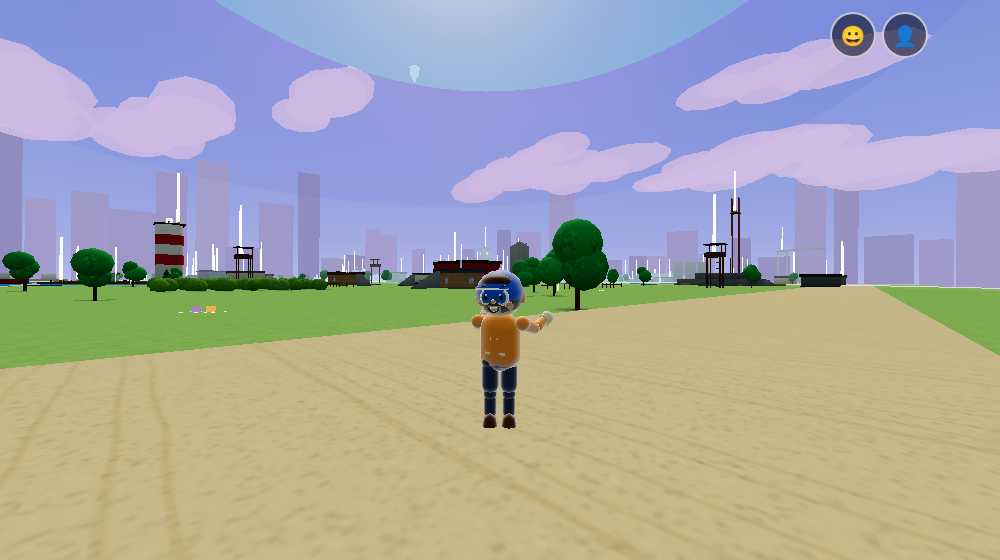
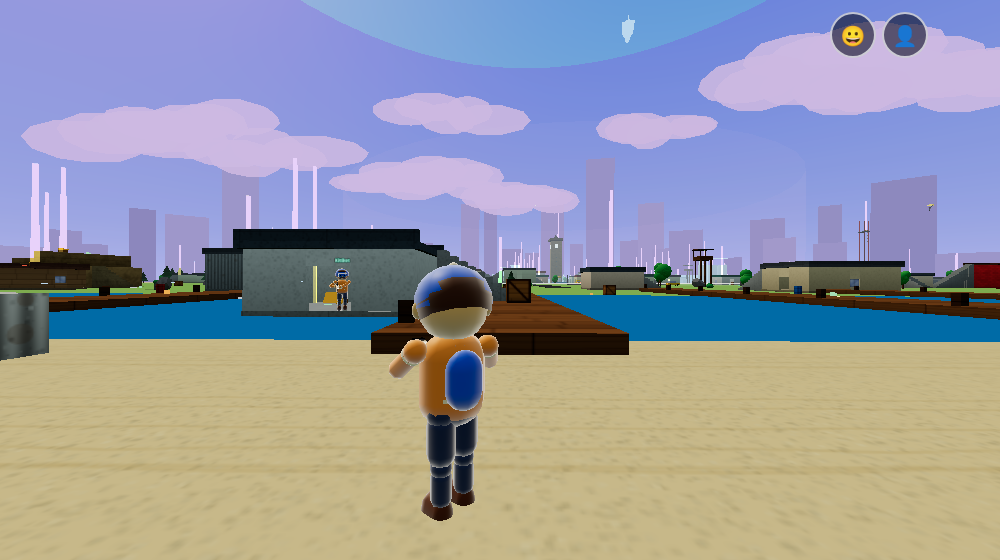
v49: emote camera closer, shots

diff --git a/game.js b/game.js
@@ -2171,7 +2171,7 @@ function tpEnsure(){const roy=royaleMode();const m=me.model;const kind=roy?'toon
  window.__toonMe=roy;const nm=(me.name||'You');const mm=makeCharacter(0xffffff,nm,'me',undefined,roy?undefined:(SKINS[PROG.skin]||[])[2]||undefined,PROG.pc);window.__toonMe=false;mm.userData.mk=kind;mm.userData.fitIdx=fit;mm.userData.noTagMe=true;mm.visible=false;scene.add(mm);me.model=mm;me.gunKey='';return mm}
 const _tp1=new THREE.Vector3(),_tp2=new THREE.Vector3(),_tp3=new THREE.Vector3(),_tp4=new THREE.Vector3();
 function tpCam(dt,w,scopeOn){const eye=_tp1.copy(camera.position);const f=_tp2.set(0,0,-1).applyQuaternion(camera.quaternion);const r=_tp3.set(1,0,0).applyQuaternion(camera.quaternion);r.y=0;r.normalize();
- const ads=me.zoomT;const wantD=TPV.d+(1.95-TPV.d)*ads+EM.k*1.3,wantS=(TPV.side+(.82-TPV.side)*ads)*TPV.sh*(1-EM.k),wantU=TPV.up*(1-ads*.4)+ (me.slideT>0?-.35:0);
+ const ads=me.zoomT;const wantD=TPV.d+(1.95-TPV.d)*ads-EM.k*.5,wantS=(TPV.side+(.82-TPV.side)*ads)*TPV.sh*(1-EM.k),wantU=TPV.up*(1-ads*.4)+ (me.slideT>0?-.35:0);
  // sideways shoulder offset first (walls beside you), then back along the view direction
  const piv=_tp4.copy(eye);piv.y+=wantU;let sd=wantS;{const dr=r.clone().multiplyScalar(Math.sign(sd)||1);const t=rayWorld(piv,dr,Math.abs(sd)+.3);if(t<Math.abs(sd)+.3)sd=Math.sign(sd)*Math.max(0,t-.28)}
  piv.addScaledVector(r,sd);
@@ -2220,7 +2220,7 @@ addEventListener('keydown',e=>{if(e.target.tagName==='INPUT'||!royaleMode()||!in
 addEventListener('keyup',e=>{if(e.code==='KeyB'&&EM.wheel&&!EM.sticky){const quick=performance.now()-EM.t0<260;if(EM.sel>=0)startEmote(EM.sel);else if(quick)startEmote(EM.last);else wheelShow(false)}});
 (function(){const b=document.createElement('button');b.id='emoBtn';b.className='hidden';b.textContent='😀';document.body.appendChild(b);b.addEventListener('pointerdown',e=>{e.stopPropagation();e.preventDefault();if(me.emo){stopEmote();return}if(EM.wheel)wheelShow(false);else if(emoCan()){wheelShow(true);EM.sticky=true}});
  setInterval(()=>{b.classList.toggle('hidden',!(inGame&&!C.hub&&royaleMode()&&!paused));if(EM.wheel&&!emoCan()&&!me.emo)wheelShow(false)},400)})();
-window.__hsz.emote=startEmote;window.__hsz.emoStop=stopEmote;window.__hsz.EM=EM;
+window.__hsz.EMOTE_DUR=EMOTE_DUR;window.__hsz.emote=startEmote;window.__hsz.emoStop=stopEmote;window.__hsz.EM=EM;
 window.__hsz.TPV=TPV;window.__hsz.rayW=(o,d,m)=>rayWorld(o,d,m);window.__hsz.camera=camera;window.__hsz.vmRoot=vmRoot;window.__hsz.camToggle=camToggle;
 
 // ---- v47 Royale menu entry + lobby ----
